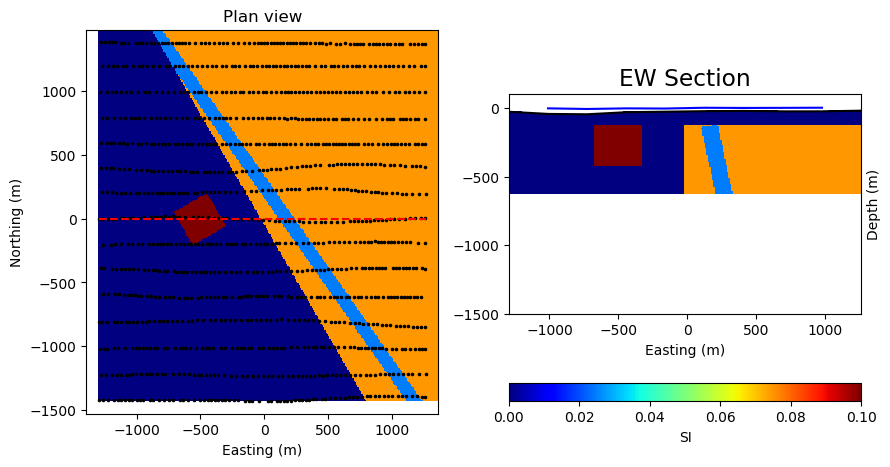
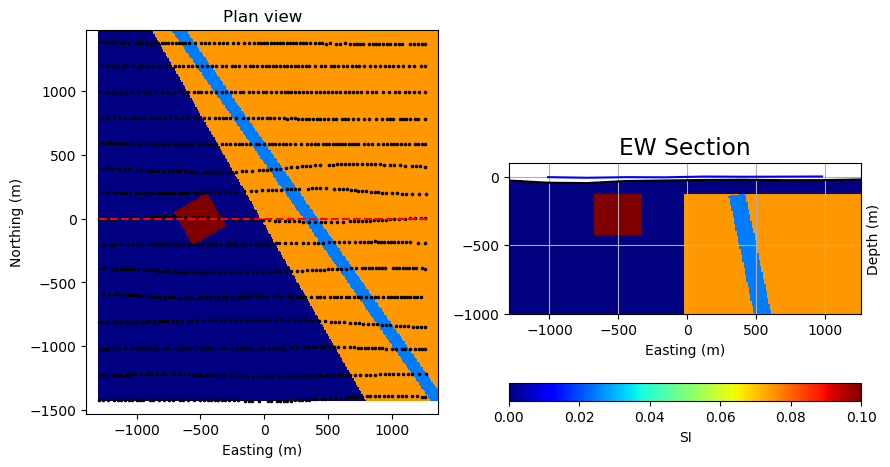
Edits to widgets

Changed region(s): [[0.5157, 0.1499, 1.0, 0.6895], [0.1517, 0.06, 0.5157, 0.8694]]

diff --git a/library/Mag/Simulator.py b/library/Mag/Simulator.py
@@ -145,12 +145,12 @@ def PlotFwrSim(prob, susc, comp, irt, Q, rinc, rdec,
     plt.show()
 
 
-def ViewMagSurvey2D(survey):
+def ViewMagSurveyWidget(survey):
 
-    def MagSurvey2D(East, North, Azimuth, Length, Sampling, ColorMap):
+    def MagSurvey2D(East, North, Azimuth, Length, Sampling, ):
 
         # Get the line extent from the 2D survey for now
-
+        ColorMap = "RdBu_r"
         Azimuth = np.deg2rad((450 - Azimuth) % 360)
         Length /= 2.*0.98
         a = [East - np.cos(Azimuth)*Length, North - np.sin(Azimuth)*Length]
@@ -209,13 +209,13 @@ def ViewMagSurvey2D(survey):
         North=widgets.FloatSlider(min=cntr[1]-Ly, max=cntr[1]+Ly, step=10, value=cntr[1],continuous_update=False),
         Azimuth=widgets.FloatSlider(min=0, max=180, step=5, value=90, continuous_update=False),
         Length=widgets.FloatSlider(min=10, max=diag, step=10, value=2000, continuous_update=False),
-        Sampling=widgets.BoundedFloatText(min=10, max=100, step=1, value=20, continuous_update=False),
-        ColorMap=widgets.Dropdown(
-                  options=cmaps(),
-                  value='RdBu_r',
-                  description='ColorMap',
-                  disabled=False,
-                )
+        Sampling=widgets.BoundedFloatText(min=10, max=100, step=1, value=20, continuous_update=False)
+        # ColorMap=widgets.Dropdown(
+        #           options=cmaps(),
+        #           value='RdBu_r',
+        #           description='ColorMap',
+        #           disabled=False,
+        #         )
     )
 
     return out
@@ -855,6 +855,7 @@ def plotProfile2D(xyz, data, a, b, npts,
 
     ax.set_xlim(distance.min(), distance.max())
     ax.set_ylabel(ylabel)
+    ax.grid(True)
     return ax
 
 
@@ -922,8 +923,6 @@ def worldViewerWidget(worldFile, data, locs):
 
         for ii, part in enumerate(shape.shape.parts):
 
-    #             if ii > 10:
-    #                 continue
             if ii != len(shape.shape.parts)-1:
                 x = [i[0] for i in shape.shape.points[shape.shape.parts[ii]:shape.shape.parts[ii+1]:50]]
                 y = [i[1] for i in shape.shape.points[shape.shape.parts[ii]:shape.shape.parts[ii+1]:50]]
@@ -938,22 +937,24 @@ def worldViewerWidget(worldFile, data, locs):
 
     def plotCountry(X, Y, ax=None, fill=True, linewidth=1):
 
-        for x,y in zip(X,Y):
-            ax.plot(x, y, 0,'k', linewidth=linewidth)
+        for x, y in zip(X, Y):
+            ax.plot(x, y, 0, 'k', linewidth=linewidth)
 
         return ax
 
     def plotLocs(placeID):
 
-        selection =int(np.r_[[ii for ii, s in enumerate(list(data.keys())) if placeID in s]])
+        selection = int(np.r_[[ii for ii, s in enumerate(list(data.keys())) if placeID in s]])
         dataVals = list(data.values())[selection]
 
         survey = ProblemSetter.setSyntheticProblem(locs, EarthField=dataVals[-3:])
 
-        plt.figure(figsize=(10,8))
-        ax1 = plt.subplot(1,2,1)
-        fig, im = plotData2D(survey.srcField.rxList[0].locs, d=survey.dobs,
-                                 ax=ax1, cmap='RdBu_r', marker=False, colorbar=False)
+        plt.figure(figsize=(10, 8))
+        ax1 = plt.subplot(1, 2, 1)
+        fig, im = plotData2D(
+          survey.srcField.rxList[0].locs, d=survey.dobs,
+          ax=ax1, cmap='RdBu_r', marker=False, colorbar=False
+        )
 
         ax1.set_xticks([0])
         ax1.set_xticklabels([MathUtils.decimalDegrees2DMS(dataVals[1], "Longitude")])
@@ -964,8 +965,8 @@ def worldViewerWidget(worldFile, data, locs):
         ax1.grid(True)
         plt.colorbar(im, orientation='horizontal')
 
-        axs = plt.subplot(1,2,2, projection='3d')
-        axs = plotCountry(X,Y, ax=axs, fill=False)
+        axs = plt.subplot(1, 2, 2, projection='3d')
+        axs = plotCountry(X, Y, ax=axs, fill=False)
         # axs.set_axis_off()
         axs.set_zticklabels([])
         axs.set_aspect('equal')
@@ -973,9 +974,8 @@ def worldViewerWidget(worldFile, data, locs):
         axs.set_position([pos.x0-0.2, pos.y0-0.75, pos.width*3., pos.height*3.])
         axs.patch.set_alpha(0.0)
         # xydata = np.loadtxt("./assets/country-capitals.csv", delimiter=",")
-        for key, entry in zip(list(data.keys()),list(data.values())):
-            axs.scatter(entry[1],entry[0], c='k')
-
+        for key, entry in zip(list(data.keys()), list(data.values())):
+            axs.scatter(entry[1], entry[0], c='k')
 
         block_xyz = np.asarray([
                         [-.2, -.2, .2, .2, 0],
@@ -1014,12 +1014,14 @@ def worldViewerWidget(worldFile, data, locs):
                                                xyz[[0, 3, 4], 1]+90,
                                                xyz[[0, 3, 4], 2]/800. + 0.05))], facecolors='k'))
 
-
-
-
-        axs.scatter(dataVals[1],dataVals[0], s = 50, c='r', marker='s', )
+        axs.scatter(dataVals[1], dataVals[0], s=50, c='r', marker='s', )
         axs.view_init(60, -90)
         axs.set_aspect('equal')
+        axs.set_title(
+          "Earth's Field: " + str(int(dataVals[-3])) + "nT, "
+          "Inc: " + str(int(dataVals[-2])) + "$^\circ$, "
+          "Dec: " + str(int(dataVals[-1])) + "$^\circ$"
+        )
         plt.show()
 
         return axs
@@ -1028,7 +1030,7 @@ def worldViewerWidget(worldFile, data, locs):
                         placeID = widgets.Dropdown(
                         options=list(data.keys()),
                         value=list(data.keys())[0],
-                        description='Number:',
+                        description='Location:',
                         disabled=False,
                         ))
 

diff --git a/library/Mag/ProblemSetter.py b/library/Mag/ProblemSetter.py
@@ -17,7 +17,7 @@ def blockModel():
     parameters = [
             [2000, 500, -100, 5000,  4000,  1000, 60, 0],
             [-500, 0, -100, 300, 300, 300, -30, 0],
-            [200, 100, -100, 4000, 100, 1000, 55, 10],
+            [400, 100, -100, 4000, 100, 1000, 55, 10],
            ]
 
     susceptibility = [0.075, 0.1, -0.05,  0.005]
@@ -53,9 +53,9 @@ def setSyntheticProblem(
         # Mesh discretization for plotting
         hx = [(10, 320)]
         hy = [(10, 320)]
-        hz = [(10, 80)]
+        hz = [(10, 120)]
         x0 = np.min(rxLocs, axis=0)
-        x0[2] -= 600
+        x0[2] -= 1000
 
         # Create a mesh
         mesh = Mesh.TensorMesh([hx, hy, hz], x0=x0)
@@ -109,7 +109,7 @@ def setSyntheticProblem(
         fig = plt.figure(figsize=(10, 6))
         axs = plt.subplot(1, 2, 1)
         indy = int(mesh.vnC[1]/2)-18
-        indz = -40
+        indz = -32
 
         # Plot horizontal section
         im = mesh.plotSlice(
@@ -158,7 +158,7 @@ def setSyntheticProblem(
         axs.set_title(
             'EW Section'
         )
-        axs.set_ylim(-1500, 100)
+        axs.set_ylim(-1000, 100)
         axs.set_aspect('equal')
         axs.set_xlabel('Easting (m)')
         axs.set_ylabel('Depth (m)')
